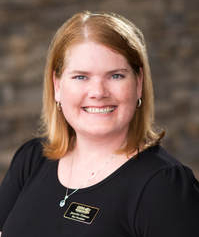
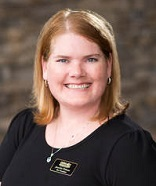
pics

diff --git a/about.html b/about.html
@@ -160,7 +160,7 @@
             </div>
             <div class="col-md-4 text-center">
                 <div class="thumbnail">
-                    <img class="img-responsive" src="img/pres2.jpg" alt="">
+                    <img class="img-responsive" src="img/pres3.jpg" alt="">
                     <div class="caption">
                         <h3>Catina Rhinehart<br>
                             <small>President</small>
@@ -198,7 +198,7 @@
             </div>
             <div class="col-md-4 text-center">
                 <div class="thumbnail">
-                    <img class="img-responsive" src="img/sec2.jpg" alt="">
+                    <img class="img-responsive" src="img/sec3.jpg" alt="">
                     <div class="caption">
                         <h3>Mary Beth MacKenzie<br>
                             <small>Secretary</small>
@@ -217,7 +217,7 @@
             </div>
             <div class="col-md-4 text-center">
                 <div class="thumbnail">
-                    <img class="img-responsive" src="img/tre2.jpg" alt="">
+                    <img class="img-responsive" src="img/tre3.jpg" alt="">
                     <div class="caption">
                         <h3>Nana Bentsi-Enchill<br>
                             <small>Treasurer</small>
